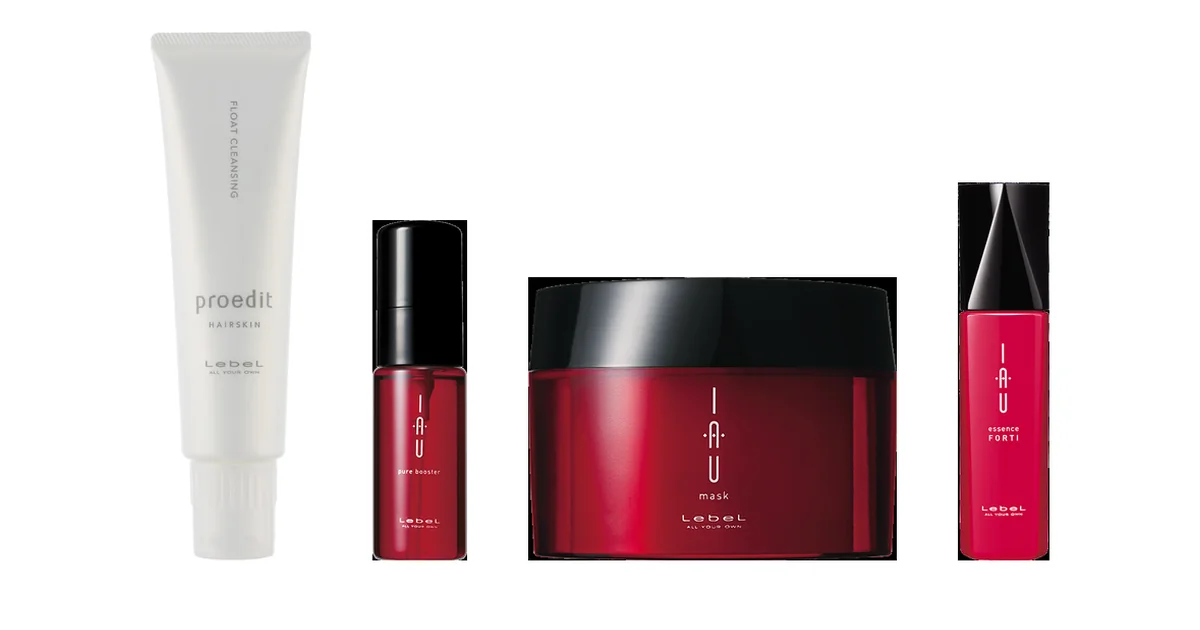
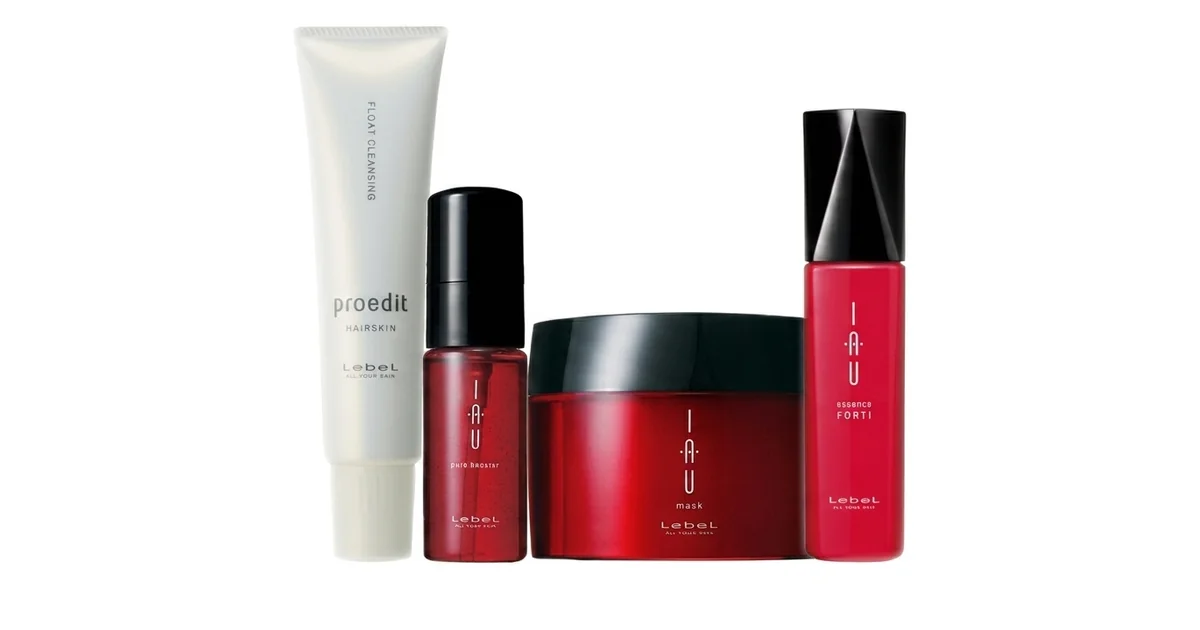
Золотое обновление: фото набора от пользователя, артикул Pure Booster (4140)
Обложка и групповое фото заменены на присланный пользователем вариант.
Добавлен реальный артикул 4140 для IAU Pure Booster с живой привязкой к
прайсу (сейчас товара нет в наличии — под заказ, автоматически оживёт,
когда появится).

diff --git a/src/content/articles/2026-08-31-lebel-zolotoe-obnovlenie.md b/src/content/articles/2026-08-31-lebel-zolotoe-obnovlenie.md
@@ -35,7 +35,7 @@ verifiedDate: 2026-08-31
 <tbody>
 <tr><td>1</td><td>Мусс для волос и кожи головы очищающий PROEDIT HAIRSKIN FLOAT CLEANSING, 145 г</td><td>3761</td><td class="col-price-cell">1857 ₽</td><td class="col-order-cell"><button type="button" class="cart-add-btn" data-name="Мусс для волос и кожи головы очищающий PHFC 145 г. 3761" data-price="1857" data-brand="LEBEL">+ В заявку</button></td></tr>
 <tr><td>2</td><td>Мусс PHFC, экономичная фасовка 250 г</td><td>4058</td><td class="col-price-cell">2616 ₽</td><td class="col-order-cell"><button type="button" class="cart-add-btn" data-name="Мусс для волос и кожи головы очищающий PHFC 250 г. 4058" data-price="2616" data-brand="LEBEL">+ В заявку</button></td></tr>
-<tr><td>3</td><td>Сыворотка-активатор IAU Pure Booster, 50 мл</td><td>—</td><td class="col-price-cell">—</td><td class="col-order-cell"><span class="order-unavailable">Под заказ</span></td></tr>
+<tr><td>3</td><td>Сыворотка-активатор IAU Pure Booster, 50 мл</td><td>4140</td><td class="col-price-cell">—</td><td class="col-order-cell"><span class="order-unavailable" data-article="4140" data-brand="LEBEL">Под заказ</span></td></tr>
 <tr><td>4</td><td>Аромамаска концентрированная IAU Mask, 170 г</td><td>5482</td><td class="col-price-cell">3846 ₽</td><td class="col-order-cell"><button type="button" class="cart-add-btn" data-name="АромаМаска д/сух., поврежд. волос IAU SERUM MASK, 170 гр. (белая) 5482" data-price="3846" data-brand="LEBEL">+ В заявку</button></td></tr>
 <tr><td>5</td><td>Эссенция укрепляющая IAU Essence Forti, 100 мл</td><td>4683</td><td class="col-price-cell">—</td><td class="col-order-cell"><span class="order-unavailable" data-article="4683" data-brand="LEBEL">Под заказ</span></td></tr>
 </tbody>
